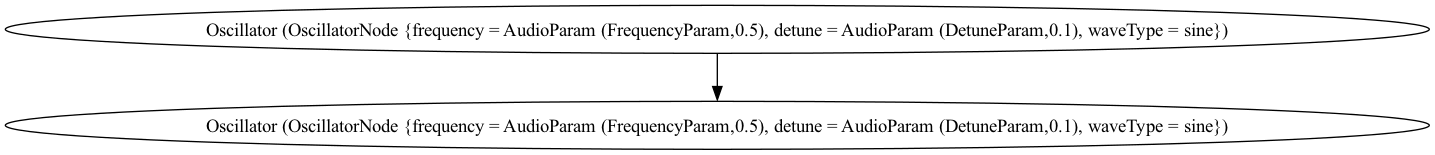
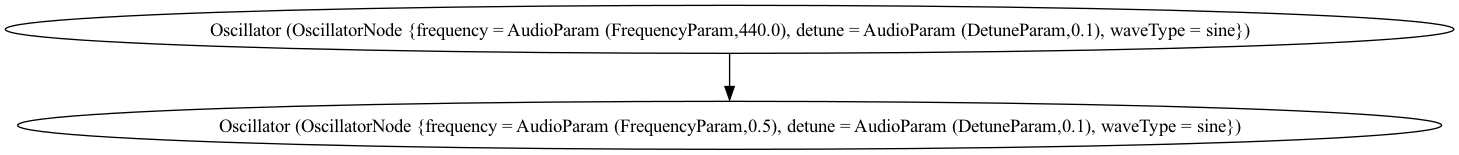
Add working set and get audio param implementations

diff --git a/tmp/output.js b/tmp/output.js
@@ -1,4 +1,7 @@
 const audioContext = new AudioContext();
-const oscillator1 = new OscillatorNode(audioContext, {"detune":0.1,"frequency":0.5,"type":"sine"});
+const oscillator1 = new OscillatorNode(audioContext, {"detune":1.5,"frequency":0.5,"type":"sine"});
 const oscillator2 = new OscillatorNode(audioContext, {"detune":0.1,"frequency":0.5,"type":"sine"});
+oscillator1.frequency.value = 440.0;
+const detune = oscillator1.detune;
+oscillator2.detune.value = 1.5;
 oscillator1.connect(oscillator2);
